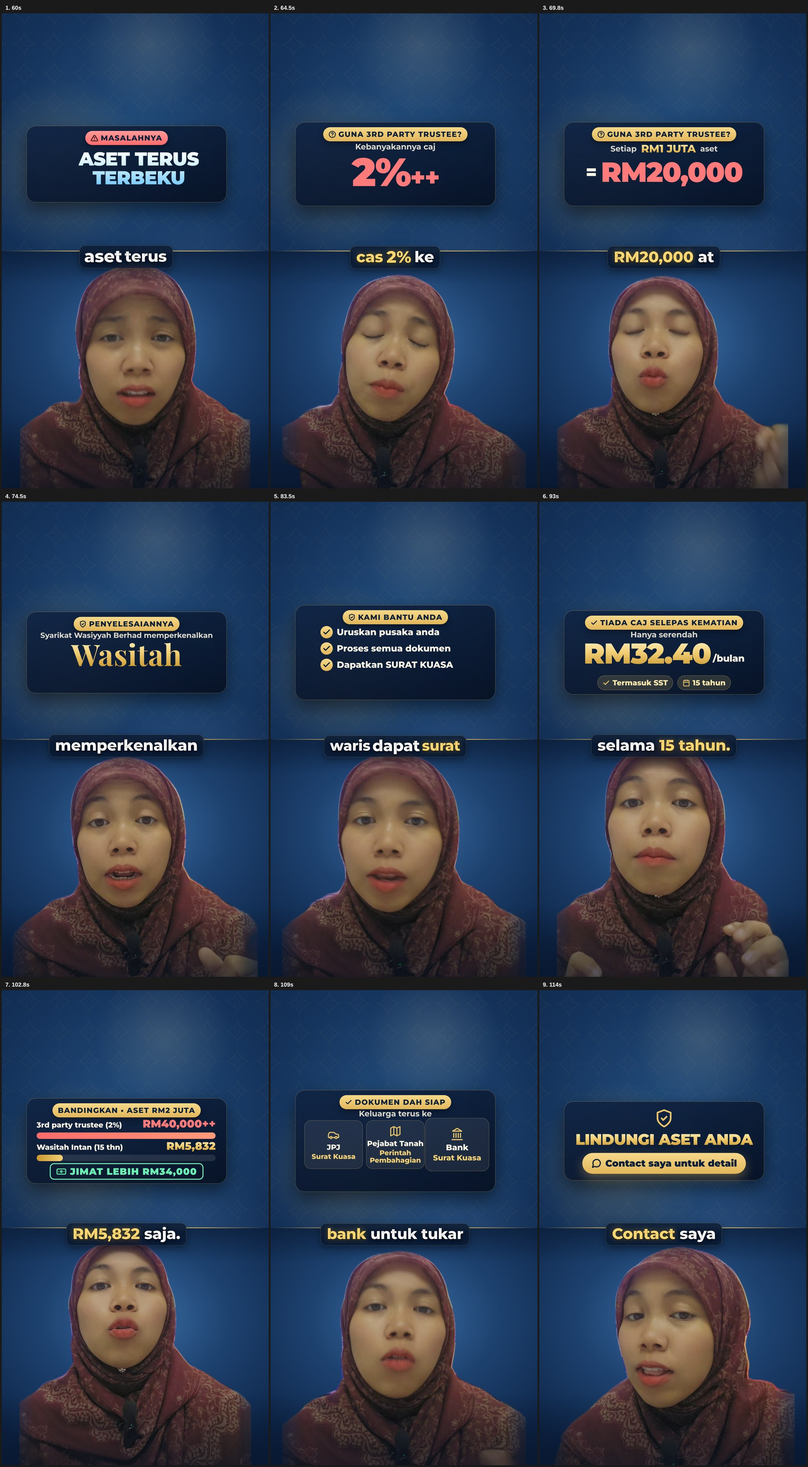
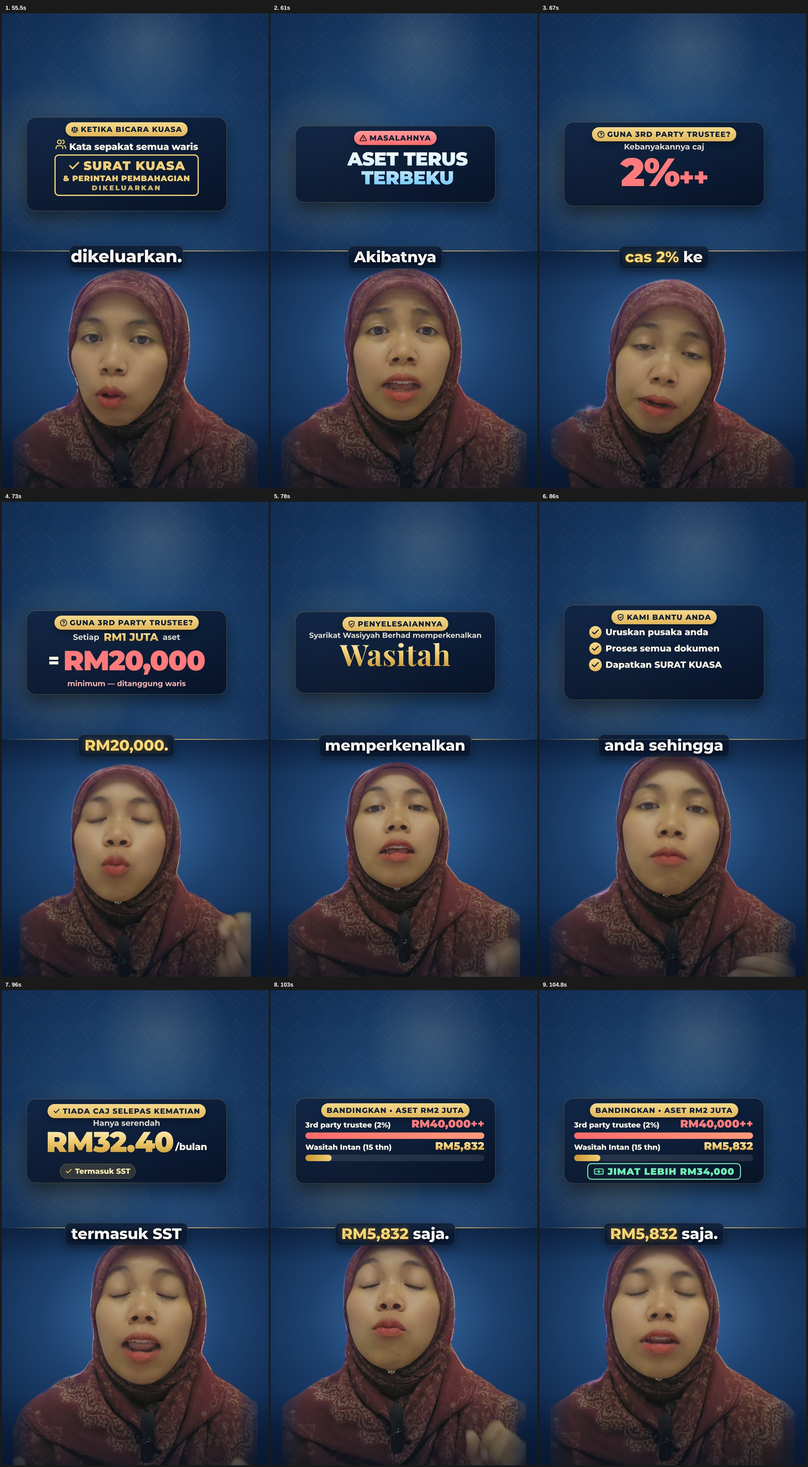
Hold short v2 labels long enough to read; refresh preview frames
Claude-Session: https://claude.ai/code/session_01RHe32ha54VEKSbteqLBH8S

diff --git a/wasiyyah-reel/compositions/captions.html b/wasiyyah-reel/compositions/captions.html
@@ -10,26 +10,26 @@
   <div id="captions" data-composition-id="captions" data-width="1080" data-height="1920">
       <div class="grp" id="cg0" data-a="4.912" data-b="5.606"><span class="pb"><span class="w" id="cw0_0" data-t="4.972">bila</span> <span class="w" id="cw0_1" data-t="5.280">berlaku</span></span></div>
       <div class="grp" id="cg1" data-a="5.606" data-b="6.667"><span class="pb"><span class="w k" id="cw1_0" data-t="5.666">kematian</span></span></div>
-      <div class="grp" id="cg2" data-a="6.885" data-b="7.656"><span class="pb"><span class="w" id="cw2_0" data-t="6.945">semua</span> <span class="w" id="cw2_1" data-t="7.080">aset</span> <span class="w" id="cw2_2" data-t="7.369">kita</span></span></div>
+      <div class="grp" id="cg2" data-a="6.885" data-b="7.656" style="font-size:61px"><span class="pb"><span class="w" id="cw2_0" data-t="6.945">semua</span> <span class="w" id="cw2_1" data-t="7.080">aset</span> <span class="w" id="cw2_2" data-t="7.369">kita</span></span></div>
       <div class="grp" id="cg3" data-a="7.656" data-b="8.900"><span class="pb"><span class="w" id="cw3_0" data-t="7.716">akan</span> <span class="w k" id="cw3_1" data-t="8.005">terbeku.</span></span></div>
       <div class="grp" id="cg4" data-a="8.900" data-b="9.728"><span class="pb"><span class="w k" id="cw4_0" data-t="8.960">Kereta</span></span></div>
       <div class="grp" id="cg5" data-a="9.728" data-b="10.519"><span class="pb"><span class="w k" id="cw5_0" data-t="9.788">rumah</span></span></div>
       <div class="grp" id="cg6" data-a="10.519" data-b="11.251"><span class="pb"><span class="w k" id="cw6_0" data-t="10.579">akaun</span> <span class="w k" id="cw6_1" data-t="10.887">bank</span></span></div>
       <div class="grp" id="cg7" data-a="11.251" data-b="11.964"><span class="pb"><span class="w k" id="cw7_0" data-t="11.311">ASB</span></span></div>
       <div class="grp" id="cg8" data-a="11.964" data-b="12.836"><span class="pb"><span class="w k" id="cw8_0" data-t="12.024">Tabung</span> <span class="w k" id="cw8_1" data-t="12.178">Haji.</span></span></div>
-      <div class="grp" id="cg9" data-a="12.836" data-b="13.626"><span class="pb"><span class="w" id="cw9_0" data-t="12.896">Untuk</span> <span class="w" id="cw9_1" data-t="13.205">keluarkan</span></span></div>
+      <div class="grp" id="cg9" data-a="12.836" data-b="13.626" style="font-size:59px"><span class="pb"><span class="w" id="cw9_0" data-t="12.896">Untuk</span> <span class="w" id="cw9_1" data-t="13.205">keluarkan</span></span></div>
       <div class="grp" id="cg10" data-a="13.626" data-b="14.783"><span class="pb"><span class="w k" id="cw10_0" data-t="13.686">duit</span> <span class="w" id="cw10_1" data-t="14.090">dan</span> <span class="w" id="cw10_2" data-t="14.322">tukar</span></span></div>
       <div class="grp" id="cg11" data-a="14.783" data-b="15.905"><span class="pb"><span class="w" id="cw11_0" data-t="14.843">nama</span> <span class="w k" id="cw11_1" data-t="15.131">geran</span></span></div>
       <div class="grp" id="cg12" data-a="15.905" data-b="16.445"><span class="pb"><span class="w" id="cw12_0" data-t="15.965">waris</span> <span class="w" id="cw12_1" data-t="16.293">perlu</span></span></div>
-      <div class="grp" id="cg13" data-a="16.445" data-b="17.524"><span class="pb"><span class="w" id="cw13_0" data-t="16.505">dapatkan</span> <span class="w k" id="cw13_1" data-t="17.257">surat</span></span></div>
+      <div class="grp" id="cg13" data-a="16.445" data-b="17.524" style="font-size:61px"><span class="pb"><span class="w" id="cw13_0" data-t="16.505">dapatkan</span> <span class="w k" id="cw13_1" data-t="17.257">surat</span></span></div>
       <div class="grp" id="cg14" data-a="17.524" data-b="18.127"><span class="pb"><span class="w k" id="cw14_0" data-t="17.584">kuasa</span></span></div>
       <div class="grp" id="cg15" data-a="18.127" data-b="19.205"><span class="pb"><span class="w" id="cw15_0" data-t="18.187">dari</span> <span class="w k" id="cw15_1" data-t="18.841">pejabat</span></span></div>
       <div class="grp" id="cg16" data-a="19.205" data-b="19.937"><span class="pb"><span class="w k" id="cw16_0" data-t="19.265">tanah</span> <span class="w" id="cw16_1" data-t="19.689">atau</span></span></div>
-      <div class="grp" id="cg17" data-a="19.937" data-b="21.073"><span class="pb"><span class="w k" id="cw17_0" data-t="19.997">mahkamah</span> <span class="w k" id="cw17_1" data-t="20.383">tinggi.</span></span></div>
+      <div class="grp" id="cg17" data-a="19.937" data-b="21.073" style="font-size:59px"><span class="pb"><span class="w k" id="cw17_0" data-t="19.997">mahkamah</span> <span class="w k" id="cw17_1" data-t="20.383">tinggi.</span></span></div>
       <div class="grp" id="cg18" data-a="21.073" data-b="21.667"><span class="pb"><span class="w" id="cw18_0" data-t="21.133">Prosesnya</span></span></div>
       <div class="grp" id="cg19" data-a="22.029" data-b="23.060"><span class="pb"><span class="w" id="cw19_0" data-t="22.089">panjang.</span></span></div>
       <div class="grp" id="cg20" data-a="23.270" data-b="23.810"><span class="pb"><span class="w" id="cw20_0" data-t="23.330">Tarikh</span> <span class="w k" id="cw20_1" data-t="23.523">bicara</span></span></div>
-      <div class="grp" id="cg21" data-a="23.810" data-b="25.419" style="font-size:61px"><span class="pb"><span class="w k" id="cw21_0" data-t="23.870">kuasa</span> <span class="w" id="cw21_1" data-t="24.216">biasanya</span> <span class="w k" id="cw21_2" data-t="24.891">6</span></span></div>
+      <div class="grp" id="cg21" data-a="23.810" data-b="25.419" style="font-size:57px"><span class="pb"><span class="w k" id="cw21_0" data-t="23.870">kuasa</span> <span class="w" id="cw21_1" data-t="24.216">biasanya</span> <span class="w k" id="cw21_2" data-t="24.891">6</span></span></div>
       <div class="grp" id="cg22" data-a="25.419" data-b="26.736"><span class="pb"><span class="w" id="cw22_0" data-t="25.479">hingga</span> <span class="w k" id="cw22_1" data-t="25.904">7</span> <span class="w k" id="cw22_2" data-t="26.269">bulan.</span></span></div>
       <div class="grp" id="cg23" data-a="26.736" data-b="27.661"><span class="pb"><span class="w" id="cw23_0" data-t="26.796">Kalau</span> <span class="w" id="cw23_1" data-t="27.085">ada</span> <span class="w" id="cw23_2" data-t="27.490">ahli</span></span></div>
       <div class="grp" id="cg24" data-a="27.661" data-b="28.895"><span class="pb"><span class="w k" id="cw24_0" data-t="27.721">faraid</span> <span class="w" id="cw24_1" data-t="28.145">gagal</span></span></div>
@@ -41,7 +41,7 @@
       <div class="grp" id="cg30" data-a="33.578" data-b="34.303"><span class="pb"><span class="w k" id="cw30_0" data-t="33.638">tangguh.</span></span></div>
       <div class="grp" id="cg31" data-a="34.303" data-b="35.421"><span class="pb"><span class="w" id="cw31_0" data-t="34.363">Ketika</span> <span class="w k" id="cw31_1" data-t="35.095">bicara</span></span></div>
       <div class="grp" id="cg32" data-a="35.421" data-b="36.440"><span class="pb"><span class="w k" id="cw32_0" data-t="35.481">kuasa</span></span></div>
-      <div class="grp" id="cg33" data-a="36.623" data-b="37.626"><span class="pb"><span class="w" id="cw33_0" data-t="36.683">semua</span> <span class="w" id="cw33_1" data-t="36.838">aset</span> <span class="w" id="cw33_2" data-t="37.300">yang</span></span></div>
+      <div class="grp" id="cg33" data-a="36.623" data-b="37.626" style="font-size:59px"><span class="pb"><span class="w" id="cw33_0" data-t="36.683">semua</span> <span class="w" id="cw33_1" data-t="36.838">aset</span> <span class="w" id="cw33_2" data-t="37.300">yang</span></span></div>
       <div class="grp" id="cg34" data-a="37.626" data-b="38.531"><span class="pb"><span class="w" id="cw34_0" data-t="37.686">diberi</span> <span class="w" id="cw34_1" data-t="38.379">akan</span></span></div>
       <div class="grp" id="cg35" data-a="38.531" data-b="39.745"><span class="pb"><span class="w" id="cw35_0" data-t="38.591">dibentangkan.</span></span></div>
       <div class="grp" id="cg36" data-a="39.795" data-b="41.086"><span class="pb"><span class="w" id="cw36_0" data-t="39.855">Yang</span> <span class="w" id="cw36_1" data-t="39.913">mana</span> <span class="w" id="cw36_2" data-t="40.684">ada</span></span></div>
@@ -58,7 +58,7 @@
       <div class="grp" id="cg47" data-a="49.258" data-b="50.116"><span class="pb"><span class="w" id="cw47_0" data-t="49.318">waris.</span></span></div>
       <div class="grp" id="cg48" data-a="50.116" data-b="50.984"><span class="pb"><span class="w" id="cw48_0" data-t="50.176">Setelah</span> <span class="w" id="cw48_1" data-t="50.562">dapat</span></span></div>
       <div class="grp" id="cg49" data-a="50.984" data-b="52.165"><span class="pb"><span class="w k" id="cw49_0" data-t="51.044">kata</span> <span class="w k" id="cw49_1" data-t="51.602">sepakat</span></span></div>
-      <div class="grp" id="cg50" data-a="52.165" data-b="53.253"><span class="pb"><span class="w" id="cw50_0" data-t="52.225">untuk</span> <span class="w" id="cw50_1" data-t="52.581">semua</span> <span class="w" id="cw50_2" data-t="53.082">ahli</span></span></div>
+      <div class="grp" id="cg50" data-a="52.165" data-b="53.253" style="font-size:59px"><span class="pb"><span class="w" id="cw50_0" data-t="52.225">untuk</span> <span class="w" id="cw50_1" data-t="52.581">semua</span> <span class="w" id="cw50_2" data-t="53.082">ahli</span></span></div>
       <div class="grp" id="cg51" data-a="53.253" data-b="53.951"><span class="pb"><span class="w k" id="cw51_0" data-t="53.313">faraid</span></span></div>
       <div class="grp" id="cg52" data-a="53.951" data-b="54.626"><span class="pb"><span class="w" id="cw52_0" data-t="54.011">barulah</span> <span class="w k" id="cw52_1" data-t="54.377">surat</span></span></div>
       <div class="grp" id="cg53" data-a="54.626" data-b="55.358"><span class="pb"><span class="w k" id="cw53_0" data-t="54.686">kuasa</span> <span class="w" id="cw53_1" data-t="55.166">akan</span></span></div>
@@ -70,47 +70,47 @@
       <div class="grp" id="cg59" data-a="60.096" data-b="61.334"><span class="pb"><span class="w" id="cw59_0" data-t="60.156">Akibatnya</span></span></div>
       <div class="grp" id="cg60" data-a="61.334" data-b="61.835"><span class="pb"><span class="w" id="cw60_0" data-t="61.394">aset</span> <span class="w" id="cw60_1" data-t="61.548">terus</span></span></div>
       <div class="grp" id="cg61" data-a="61.835" data-b="62.836"><span class="pb"><span class="w k" id="cw61_0" data-t="61.895">terbeku.</span></span></div>
-      <div class="grp" id="cg62" data-a="62.836" data-b="63.993" style="font-size:57px"><span class="pb"><span class="w" id="cw62_0" data-t="62.896">Nak</span> <span class="w" id="cw62_1" data-t="63.146">minta</span> <span class="w" id="cw62_2" data-t="63.629">bantuan</span></span></div>
+      <div class="grp" id="cg62" data-a="62.836" data-b="63.993" style="font-size:53px"><span class="pb"><span class="w" id="cw62_0" data-t="62.896">Nak</span> <span class="w" id="cw62_1" data-t="63.146">minta</span> <span class="w" id="cw62_2" data-t="63.629">bantuan</span></span></div>
       <div class="grp" id="cg63" data-a="63.993" data-b="65.146"><span class="pb"><span class="w" id="cw63_0" data-t="64.053">third party?</span></span></div>
-      <div class="grp" id="cg64" data-a="65.251" data-b="66.514"><span class="pb"><span class="w" id="cw64_0" data-t="65.311">Kebanyakannya</span></span></div>
+      <div class="grp" id="cg64" data-a="65.251" data-b="66.514" style="font-size:61px"><span class="pb"><span class="w" id="cw64_0" data-t="65.311">Kebanyakannya</span></span></div>
       <div class="grp" id="cg65" data-a="66.514" data-b="67.651"><span class="pb"><span class="w k" id="cw65_0" data-t="66.574">cas</span> <span class="w k" id="cw65_1" data-t="66.748">2%</span> <span class="w" id="cw65_2" data-t="67.480">ke</span></span></div>
       <div class="grp" id="cg66" data-a="67.651" data-b="68.496"><span class="pb"><span class="w" id="cw66_0" data-t="67.711">atas.</span></span></div>
       <div class="grp" id="cg67" data-a="68.496" data-b="69.394"><span class="pb"><span class="w" id="cw67_0" data-t="68.556">Bayangkan</span></span></div>
-      <div class="grp" id="cg68" data-a="69.394" data-b="71.291"><span class="pb"><span class="w" id="cw68_0" data-t="69.454">setiap</span> <span class="w k" id="cw68_1" data-t="70.090">RM1</span> <span class="w k" id="cw68_2" data-t="70.572">juta</span></span></div>
+      <div class="grp" id="cg68" data-a="69.394" data-b="71.291" style="font-size:58px"><span class="pb"><span class="w" id="cw68_0" data-t="69.454">setiap</span> <span class="w k" id="cw68_1" data-t="70.090">RM1</span> <span class="w k" id="cw68_2" data-t="70.572">juta</span></span></div>
       <div class="grp" id="cg69" data-a="71.495" data-b="72.015"><span class="pb"><span class="w" id="cw69_0" data-t="71.555">waris</span> <span class="w" id="cw69_1" data-t="71.805">perlu</span></span></div>
       <div class="grp" id="cg70" data-a="72.015" data-b="72.593"><span class="pb"><span class="w" id="cw70_0" data-t="72.075">keluarkan</span></span></div>
       <div class="grp" id="cg71" data-a="72.593" data-b="73.879"><span class="pb"><span class="w k" id="cw71_0" data-t="72.653">RM20,000.</span></span></div>
       <div class="grp" id="cg72" data-a="73.879" data-b="74.694"><span class="pb"><span class="w" id="cw72_0" data-t="73.939">Sebab</span> <span class="w" id="cw72_1" data-t="74.208">itu</span></span></div>
-      <div class="grp" id="cg73" data-a="74.694" data-b="75.887" style="font-size:57px"><span class="pb"><span class="w" id="cw73_0" data-t="74.754">Syarikat</span> <span class="w k" id="cw73_1" data-t="75.523">Wasiyyah</span></span></div>
+      <div class="grp" id="cg73" data-a="74.694" data-b="75.887" style="font-size:53px"><span class="pb"><span class="w" id="cw73_0" data-t="74.754">Syarikat</span> <span class="w k" id="cw73_1" data-t="75.523">Wasiyyah</span></span></div>
       <div class="grp" id="cg74" data-a="75.887" data-b="76.214"><span class="pb"><span class="w" id="cw74_0" data-t="75.947">Berhad</span></span></div>
-      <div class="grp" id="cg75" data-a="76.214" data-b="78.193"><span class="pb"><span class="w" id="cw75_0" data-t="76.274">memperkenalkan</span></span></div>
+      <div class="grp" id="cg75" data-a="76.214" data-b="78.193" style="font-size:61px"><span class="pb"><span class="w" id="cw75_0" data-t="76.274">memperkenalkan</span></span></div>
       <div class="grp" id="cg76" data-a="78.193" data-b="79.157"><span class="pb"><span class="w" id="cw76_0" data-t="78.253">satu</span> <span class="w" id="cw76_1" data-t="78.774">produk</span></span></div>
-      <div class="grp" id="cg77" data-a="79.157" data-b="80.615"><span class="pb"><span class="w k" id="cw77_0" data-t="79.217">Wasitah</span> <span class="w" id="cw77_1" data-t="80.039">sebagai</span></span></div>
-      <div class="grp" id="cg78" data-a="80.615" data-b="81.855"><span class="pb"><span class="w k" id="cw78_0" data-t="80.675">Khairiat</span> <span class="w k" id="cw78_1" data-t="81.004">Pusaka.</span></span></div>
-      <div class="grp" id="cg79" data-a="81.855" data-b="83.300"><span class="pb"><span class="w" id="cw79_0" data-t="81.915">kami</span> <span class="w" id="cw79_1" data-t="82.454">akan</span> <span class="w" id="cw79_2" data-t="82.917">bantu</span></span></div>
-      <div class="grp" id="cg80" data-a="83.300" data-b="84.322"><span class="pb"><span class="w" id="cw80_0" data-t="83.360">uruskan</span> <span class="w k" id="cw80_1" data-t="83.823">pusaka</span></span></div>
+      <div class="grp" id="cg77" data-a="79.157" data-b="80.615" style="font-size:61px"><span class="pb"><span class="w k" id="cw77_0" data-t="79.217">Wasitah</span> <span class="w" id="cw77_1" data-t="80.039">sebagai</span></span></div>
+      <div class="grp" id="cg78" data-a="80.615" data-b="81.855" style="font-size:58px"><span class="pb"><span class="w k" id="cw78_0" data-t="80.675">Khairiat</span> <span class="w k" id="cw78_1" data-t="81.004">Pusaka.</span></span></div>
+      <div class="grp" id="cg79" data-a="81.855" data-b="83.300" style="font-size:61px"><span class="pb"><span class="w" id="cw79_0" data-t="81.915">kami</span> <span class="w" id="cw79_1" data-t="82.454">akan</span> <span class="w" id="cw79_2" data-t="82.917">bantu</span></span></div>
+      <div class="grp" id="cg80" data-a="83.300" data-b="84.322" style="font-size:61px"><span class="pb"><span class="w" id="cw80_0" data-t="83.360">uruskan</span> <span class="w k" id="cw80_1" data-t="83.823">pusaka</span></span></div>
       <div class="grp" id="cg81" data-a="84.322" data-b="86.084"><span class="pb"><span class="w" id="cw81_0" data-t="84.382">anda</span> <span class="w" id="cw81_1" data-t="84.940">sehingga</span></span></div>
-      <div class="grp" id="cg82" data-a="86.084" data-b="87.105" style="font-size:58px"><span class="pb"><span class="w" id="cw82_0" data-t="86.144">waris</span> <span class="w" id="cw82_1" data-t="86.491">dapat</span> <span class="w k" id="cw82_2" data-t="86.877">surat</span></span></div>
+      <div class="grp" id="cg82" data-a="86.084" data-b="87.105" style="font-size:53px"><span class="pb"><span class="w" id="cw82_0" data-t="86.144">waris</span> <span class="w" id="cw82_1" data-t="86.491">dapat</span> <span class="w k" id="cw82_2" data-t="86.877">surat</span></span></div>
       <div class="grp" id="cg83" data-a="87.105" data-b="88.312"><span class="pb"><span class="w k" id="cw83_0" data-t="87.165">kuasa.</span></span></div>
-      <div class="grp" id="cg84" data-a="88.312" data-b="89.179" style="font-size:59px"><span class="pb"><span class="w k" id="cw84_0" data-t="88.372">Tiada</span> <span class="w k" id="cw84_1" data-t="88.622">cas</span> <span class="w" id="cw84_2" data-t="88.833">selepas</span></span></div>
+      <div class="grp" id="cg84" data-a="88.312" data-b="89.179" style="font-size:55px"><span class="pb"><span class="w k" id="cw84_0" data-t="88.372">Tiada</span> <span class="w k" id="cw84_1" data-t="88.622">cas</span> <span class="w" id="cw84_2" data-t="88.833">selepas</span></span></div>
       <div class="grp" id="cg85" data-a="89.179" data-b="90.587"><span class="pb"><span class="w k" id="cw85_0" data-t="89.239">kematian</span></span></div>
-      <div class="grp" id="cg86" data-a="90.731" data-b="91.560"><span class="pb"><span class="w" id="cw86_0" data-t="90.791">hanya</span> <span class="w" id="cw86_1" data-t="90.926">serendah</span></span></div>
+      <div class="grp" id="cg86" data-a="90.731" data-b="91.560" style="font-size:61px"><span class="pb"><span class="w" id="cw86_0" data-t="90.791">hanya</span> <span class="w" id="cw86_1" data-t="90.926">serendah</span></span></div>
       <div class="grp" id="cg87" data-a="91.560" data-b="93.271"><span class="pb"><span class="w k" id="cw87_0" data-t="91.620">RM32.40</span></span></div>
       <div class="grp" id="cg88" data-a="93.500" data-b="94.541"><span class="pb"><span class="w" id="cw88_0" data-t="93.560">sebulan</span></span></div>
       <div class="grp" id="cg89" data-a="94.541" data-b="96.102"><span class="pb"><span class="w" id="cw89_0" data-t="94.601">termasuk</span> <span class="w" id="cw89_1" data-t="95.006">SST</span></span></div>
-      <div class="grp" id="cg90" data-a="96.102" data-b="98.139"><span class="pb"><span class="w" id="cw90_0" data-t="96.162">selama</span> <span class="w k" id="cw90_1" data-t="96.682">15</span> <span class="w k" id="cw90_2" data-t="97.473">tahun.</span></span></div>
-      <div class="grp" id="cg91" data-a="98.139" data-b="99.508" style="font-size:57px"><span class="pb"><span class="w" id="cw91_0" data-t="98.199">Kami</span> <span class="w" id="cw91_1" data-t="98.740">uruskan</span> <span class="w" id="cw91_2" data-t="99.279">aset</span></span></div>
+      <div class="grp" id="cg90" data-a="96.102" data-b="98.139" style="font-size:58px"><span class="pb"><span class="w" id="cw90_0" data-t="96.162">selama</span> <span class="w k" id="cw90_1" data-t="96.682">15</span> <span class="w k" id="cw90_2" data-t="97.473">tahun.</span></span></div>
+      <div class="grp" id="cg91" data-a="98.139" data-b="99.508" style="font-size:53px"><span class="pb"><span class="w" id="cw91_0" data-t="98.199">Kami</span> <span class="w" id="cw91_1" data-t="98.740">uruskan</span> <span class="w" id="cw91_2" data-t="99.279">aset</span></span></div>
       <div class="grp" id="cg92" data-a="99.508" data-b="100.548"><span class="pb"><span class="w" id="cw92_0" data-t="99.568">sehingga</span> <span class="w k" id="cw92_1" data-t="100.165">RM2</span></span></div>
       <div class="grp" id="cg93" data-a="100.548" data-b="101.488"><span class="pb"><span class="w k" id="cw93_0" data-t="100.608">juta.</span></span></div>
-      <div class="grp" id="cg94" data-a="101.488" data-b="102.510"><span class="pb"><span class="w" id="cw94_0" data-t="101.548">jumlahnya</span> <span class="w" id="cw94_1" data-t="102.107">hanya</span></span></div>
+      <div class="grp" id="cg94" data-a="101.488" data-b="102.510" style="font-size:59px"><span class="pb"><span class="w" id="cw94_0" data-t="101.548">jumlahnya</span> <span class="w" id="cw94_1" data-t="102.107">hanya</span></span></div>
       <div class="grp" id="cg95" data-a="102.510" data-b="106.045"><span class="pb"><span class="w k" id="cw95_0" data-t="102.570">RM5,832</span> <span class="w" id="cw95_1" data-t="104.901">saja.</span></span></div>
-      <div class="grp" id="cg96" data-a="106.045" data-b="106.585"><span class="pb"><span class="w" id="cw96_0" data-t="106.105">Dah</span> <span class="w" id="cw96_1" data-t="106.163">dapat</span> <span class="w k" id="cw96_2" data-t="106.375">surat</span></span></div>
+      <div class="grp" id="cg96" data-a="106.045" data-b="106.585" style="font-size:59px"><span class="pb"><span class="w" id="cw96_0" data-t="106.105">Dah</span> <span class="w" id="cw96_1" data-t="106.163">dapat</span> <span class="w k" id="cw96_2" data-t="106.375">surat</span></span></div>
       <div class="grp" id="cg97" data-a="106.585" data-b="107.466"><span class="pb"><span class="w k" id="cw97_0" data-t="106.645">kuasa</span></span></div>
       <div class="grp" id="cg98" data-a="107.466" data-b="108.482"><span class="pb"><span class="w" id="cw98_0" data-t="107.526">keluarga</span> <span class="w" id="cw98_1" data-t="108.253">boleh</span></span></div>
       <div class="grp" id="cg99" data-a="108.482" data-b="109.947"><span class="pb"><span class="w" id="cw99_0" data-t="108.542">terus</span> <span class="w" id="cw99_1" data-t="108.870">ke</span> <span class="w k" id="cw99_2" data-t="109.140">JPJ</span></span></div>
-      <div class="grp" id="cg100" data-a="109.947" data-b="111.172" style="font-size:55px"><span class="pb"><span class="w k" id="cw100_0" data-t="110.007">Pejabat</span> <span class="w k" id="cw100_1" data-t="110.296">Tanah</span> <span class="w" id="cw100_2" data-t="110.991">dan</span></span></div>
-      <div class="grp" id="cg101" data-a="111.172" data-b="112.290" style="font-size:60px"><span class="pb"><span class="w k" id="cw101_0" data-t="111.232">bank</span> <span class="w" id="cw101_1" data-t="111.560">untuk</span> <span class="w" id="cw101_2" data-t="111.984">tukar</span></span></div>
-      <div class="grp" id="cg102" data-a="112.290" data-b="113.292"><span class="pb"><span class="w" id="cw102_0" data-t="112.350">nama</span> <span class="w" id="cw102_1" data-t="112.677">dan</span> <span class="w k" id="cw102_2" data-t="112.966">cairkan</span></span></div>
+      <div class="grp" id="cg100" data-a="109.947" data-b="111.172" style="font-size:51px"><span class="pb"><span class="w k" id="cw100_0" data-t="110.007">Pejabat</span> <span class="w k" id="cw100_1" data-t="110.296">Tanah</span> <span class="w" id="cw100_2" data-t="110.991">dan</span></span></div>
+      <div class="grp" id="cg101" data-a="111.172" data-b="112.290" style="font-size:55px"><span class="pb"><span class="w k" id="cw101_0" data-t="111.232">bank</span> <span class="w" id="cw101_1" data-t="111.560">untuk</span> <span class="w" id="cw101_2" data-t="111.984">tukar</span></span></div>
+      <div class="grp" id="cg102" data-a="112.290" data-b="113.292" style="font-size:57px"><span class="pb"><span class="w" id="cw102_0" data-t="112.350">nama</span> <span class="w" id="cw102_1" data-t="112.677">dan</span> <span class="w k" id="cw102_2" data-t="112.966">cairkan</span></span></div>
       <div class="grp" id="cg103" data-a="113.292" data-b="113.850"><span class="pb"><span class="w k" id="cw103_0" data-t="113.352">duit.</span></span></div>
       <div class="grp" id="cg104" data-a="113.850" data-b="115.219"><span class="pb"><span class="w k" id="cw104_0" data-t="113.910">Lindungi</span> <span class="w" id="cw104_1" data-t="115.028">aset</span></span></div>
       <div class="grp" id="cg105" data-a="115.219" data-b="115.755"><span class="pb"><span class="w" id="cw105_0" data-t="115.279">anda.</span></span></div>

diff --git a/wasiyyah-reel/index.html b/wasiyyah-reel/index.html
@@ -45,8 +45,8 @@
       <div id="frost" data-layout-ignore></div>
       <div id="hook" class="clip scene" data-composition-id="hook" data-composition-src="compositions/hook.html" data-start="0.0" data-duration="4.951" data-track-index="2" data-track-kind="graphics" data-width="1080" data-height="1920"></div>
       <div id="freeze" class="clip scene" data-composition-id="freeze" data-composition-src="compositions/freeze.html" data-start="4.951" data-duration="3.902" data-track-index="2" data-track-kind="graphics" data-width="1080" data-height="1920"></div>
-      <div id="assets" class="clip scene" data-composition-id="assets" data-composition-src="compositions/assets.html" data-start="8.853" data-duration="5.35" data-track-index="2" data-track-kind="graphics" data-width="1080" data-height="1920"></div>
-      <div id="surat" class="clip scene" data-composition-id="surat" data-composition-src="compositions/surat.html" data-start="14.203" data-duration="6.826" data-track-index="2" data-track-kind="graphics" data-width="1080" data-height="1920"></div>
+      <div id="assets" class="clip scene" data-composition-id="assets" data-composition-src="compositions/assets.html" data-start="8.853" data-duration="5.8" data-track-index="2" data-track-kind="graphics" data-width="1080" data-height="1920"></div>
+      <div id="surat" class="clip scene" data-composition-id="surat" data-composition-src="compositions/surat.html" data-start="14.653" data-duration="6.376" data-track-index="2" data-track-kind="graphics" data-width="1080" data-height="1920"></div>
       <div id="tarikh" class="clip scene" data-composition-id="tarikh" data-composition-src="compositions/tarikh.html" data-start="21.029" data-duration="14.77" data-track-index="2" data-track-kind="graphics" data-width="1080" data-height="1920"></div>
       <div id="bicara" class="clip scene" data-composition-id="bicara" data-composition-src="compositions/bicara.html" data-start="35.799" data-duration="20.363" data-track-index="2" data-track-kind="graphics" data-width="1080" data-height="1920"></div>
       <div id="masalah" class="clip scene" data-composition-id="masalah" data-composition-src="compositions/masalah.html" data-start="56.162" data-duration="6.402" data-track-index="2" data-track-kind="graphics" data-width="1080" data-height="1920"></div>
@@ -73,8 +73,8 @@
       <audio id="sfx10" class="clip" src="assets/sfx/pop.wav" data-start="11.311" data-duration="0.12" data-volume="0.3" data-audio-group="sfx" data-track-index="4"></audio>
       <audio id="sfx11" class="clip" src="assets/sfx/pop.wav" data-start="12.019" data-duration="0.12" data-volume="0.3" data-audio-group="sfx" data-track-index="4"></audio>
       <audio id="sfx12" class="clip" src="assets/sfx/lock.wav" data-start="12.753" data-duration="0.5" data-volume="0.4" data-audio-group="sfx" data-track-index="4"></audio>
-      <audio id="sfx13" class="clip" src="assets/sfx/tick.wav" data-start="13.253" data-duration="0.05" data-volume="0.28" data-audio-group="sfx" data-track-index="4"></audio>
-      <audio id="sfx14" class="clip" src="assets/sfx/whoosh.wav" data-start="14.203" data-duration="0.55" data-volume="0.24" data-audio-group="sfx" data-track-index="4"></audio>
+      <audio id="sfx13" class="clip" src="assets/sfx/tick.wav" data-start="12.903" data-duration="0.05" data-volume="0.28" data-audio-group="sfx" data-track-index="5"></audio>
+      <audio id="sfx14" class="clip" src="assets/sfx/whoosh.wav" data-start="14.653" data-duration="0.55" data-volume="0.24" data-audio-group="sfx" data-track-index="4"></audio>
       <audio id="sfx15" class="clip" src="assets/sfx/stamp.wav" data-start="17.258" data-duration="0.35" data-volume="0.45" data-audio-group="sfx" data-track-index="4"></audio>
       <audio id="sfx16" class="clip" src="assets/sfx/pop.wav" data-start="18.791" data-duration="0.12" data-volume="0.28" data-audio-group="sfx" data-track-index="4"></audio>
       <audio id="sfx17" class="clip" src="assets/sfx/pop.wav" data-start="19.957" data-duration="0.12" data-volume="0.28" data-audio-group="sfx" data-track-index="4"></audio>
@@ -147,36 +147,36 @@
     tl.to('#frost',{opacity:0,duration:0.5,ease:'power2.in'},62.031499999999994);
     tl.fromTo('#frost',{opacity:0,scale:1.08},{opacity:1,scale:1,duration:0.18,ease:'power2.out',immediateRender:false},12.753);
     tl.to('#frost',{opacity:0,duration:0.5,ease:'power2.in'},13.453);
-    tl.to('#shake',{x:14.0,y:-8.4,duration:0.035,ease:'none'},3.486);
-    tl.to('#shake',{x:-11.2,y:12.6,duration:0.035,ease:'none'},3.521);
-    tl.to('#shake',{x:8.4,y:-5.6,duration:0.035,ease:'none'},3.556);
-    tl.to('#shake',{x:-5.6,y:7.0,duration:0.035,ease:'none'},3.591);
-    tl.to('#shake',{x:2.8,y:-2.8,duration:0.035,ease:'none'},3.626);
-    tl.to('#shake',{x:0.0,y:0.0,duration:0.035,ease:'none'},3.661);
-    tl.to('#shake',{x:7.0,y:-4.2,duration:0.035,ease:'none'},33.383);
-    tl.to('#shake',{x:-5.6,y:6.3,duration:0.035,ease:'none'},33.418);
-    tl.to('#shake',{x:4.2,y:-2.8,duration:0.035,ease:'none'},33.453);
-    tl.to('#shake',{x:-2.8,y:3.5,duration:0.035,ease:'none'},33.488);
-    tl.to('#shake',{x:1.4,y:-1.4,duration:0.035,ease:'none'},33.523);
-    tl.to('#shake',{x:0.0,y:0.0,duration:0.035,ease:'none'},33.558);
+    tl.to('#shake',{x:14.0,y:-8.4,duration:0.035,ease:'none'},3.490);
+    tl.to('#shake',{x:-11.2,y:12.6,duration:0.035,ease:'none'},3.525);
+    tl.to('#shake',{x:8.4,y:-5.6,duration:0.035,ease:'none'},3.560);
+    tl.to('#shake',{x:-5.6,y:7.0,duration:0.035,ease:'none'},3.595);
+    tl.to('#shake',{x:2.8,y:-2.8,duration:0.035,ease:'none'},3.630);
+    tl.to('#shake',{x:0.0,y:0.0,duration:0.035,ease:'none'},3.665);
+    tl.to('#shake',{x:7.0,y:-4.2,duration:0.035,ease:'none'},33.380);
+    tl.to('#shake',{x:-5.6,y:6.3,duration:0.035,ease:'none'},33.415);
+    tl.to('#shake',{x:4.2,y:-2.8,duration:0.035,ease:'none'},33.450);
+    tl.to('#shake',{x:-2.8,y:3.5,duration:0.035,ease:'none'},33.485);
+    tl.to('#shake',{x:1.4,y:-1.4,duration:0.035,ease:'none'},33.520);
+    tl.to('#shake',{x:0.0,y:0.0,duration:0.035,ease:'none'},33.555);
     tl.to('#shake',{x:6.0,y:-3.6,duration:0.035,ease:'none'},66.460);
     tl.to('#shake',{x:-4.8,y:5.4,duration:0.035,ease:'none'},66.495);
     tl.to('#shake',{x:3.6,y:-2.4,duration:0.035,ease:'none'},66.530);
-    tl.to('#shake',{x:-2.4,y:3.0,duration:0.035,ease:'none'},66.566);
+    tl.to('#shake',{x:-2.4,y:3.0,duration:0.035,ease:'none'},66.565);
     tl.to('#shake',{x:1.2,y:-1.2,duration:0.035,ease:'none'},66.600);
     tl.to('#shake',{x:0.0,y:0.0,duration:0.035,ease:'none'},66.635);
-    tl.to('#shake',{x:5.0,y:-3.0,duration:0.035,ease:'none'},7.937);
-    tl.to('#shake',{x:-4.0,y:4.5,duration:0.035,ease:'none'},7.972);
-    tl.to('#shake',{x:3.0,y:-2.0,duration:0.035,ease:'none'},8.007);
-    tl.to('#shake',{x:-2.0,y:2.5,duration:0.035,ease:'none'},8.042);
-    tl.to('#shake',{x:1.0,y:-1.0,duration:0.035,ease:'none'},8.077);
-    tl.to('#shake',{x:0.0,y:0.0,duration:0.035,ease:'none'},8.112);
-    tl.to('#shake',{x:5.0,y:-3.0,duration:0.035,ease:'none'},12.803);
-    tl.to('#shake',{x:-4.0,y:4.5,duration:0.035,ease:'none'},12.838);
-    tl.to('#shake',{x:3.0,y:-2.0,duration:0.035,ease:'none'},12.873);
-    tl.to('#shake',{x:-2.0,y:2.5,duration:0.035,ease:'none'},12.908);
-    tl.to('#shake',{x:1.0,y:-1.0,duration:0.035,ease:'none'},12.943);
-    tl.to('#shake',{x:0.0,y:0.0,duration:0.035,ease:'none'},12.978);
+    tl.to('#shake',{x:5.0,y:-3.0,duration:0.035,ease:'none'},7.940);
+    tl.to('#shake',{x:-4.0,y:4.5,duration:0.035,ease:'none'},7.975);
+    tl.to('#shake',{x:3.0,y:-2.0,duration:0.035,ease:'none'},8.010);
+    tl.to('#shake',{x:-2.0,y:2.5,duration:0.035,ease:'none'},8.045);
+    tl.to('#shake',{x:1.0,y:-1.0,duration:0.035,ease:'none'},8.080);
+    tl.to('#shake',{x:0.0,y:0.0,duration:0.035,ease:'none'},8.115);
+    tl.to('#shake',{x:5.0,y:-3.0,duration:0.035,ease:'none'},12.800);
+    tl.to('#shake',{x:-4.0,y:4.5,duration:0.035,ease:'none'},12.835);
+    tl.to('#shake',{x:3.0,y:-2.0,duration:0.035,ease:'none'},12.870);
+    tl.to('#shake',{x:-2.0,y:2.5,duration:0.035,ease:'none'},12.905);
+    tl.to('#shake',{x:1.0,y:-1.0,duration:0.035,ease:'none'},12.940);
+    tl.to('#shake',{x:0.0,y:0.0,duration:0.035,ease:'none'},12.975);
       window.__timelines["main"] = tl;
     </script>
   </body>

diff --git a/wasiyyah-reel/compositions/surat.html b/wasiyyah-reel/compositions/surat.html
@@ -55,13 +55,13 @@ const RM=(v)=>'RM'+Math.round(v).toLocaleString('en-US');
 
     IN('#su-panel',0.0,{y:-30});
     POP('#su-kick',0.0);
-    IN('#su-l1',1.712);
-    IN('#su-doc',2.181,{y:30});
-    tl.fromTo('#su-title',{scale:1.5,opacity:0.2},{scale:1,opacity:1,duration:0.22,ease:'power4.in'},3.055);
-    POP('#su-p1',4.588);
-    IN('#su-or',5.421,{y:10,d:0.25});
-    POP('#su-p2',5.754);
-    OUT('#su-panel',6.513);
+    IN('#su-l1',1.262);
+    IN('#su-doc',1.731,{y:30});
+    tl.fromTo('#su-title',{scale:1.5,opacity:0.2},{scale:1,opacity:1,duration:0.22,ease:'power4.in'},2.605);
+    POP('#su-p1',4.138);
+    IN('#su-or',4.971,{y:10,d:0.25});
+    POP('#su-p2',5.304);
+    OUT('#su-panel',6.063);
 
     window.__timelines["surat"] = tl;
   </script>

diff --git a/wasiyyah-reel/compositions/assets.html b/wasiyyah-reel/compositions/assets.html
@@ -64,8 +64,8 @@ const RM=(v)=>'RM'+Math.round(v).toLocaleString('en-US');
     tl.to('#as-fr0,#as-fr1,#as-fr2,#as-fr3,#as-fr4',{opacity:1,duration:0.3,stagger:0.07,ease:'power2.out'},3.9);
     POP('#as-lk0,#as-lk1,#as-lk2,#as-lk3,#as-lk4',3.95,{st:0.07});
     tl.fromTo('#as-panel',{x:0},{x:7,duration:0.05,yoyo:true,repeat:5,ease:'none'},3.95);
-    POP('#as-ban',4.4);
-    OUT('#as-panel',5.05);
+    POP('#as-ban',4.05);
+    OUT('#as-panel',5.5);
 
     window.__timelines["assets"] = tl;
   </script>

diff --git a/wasiyyah-reel/compositions/third.html b/wasiyyah-reel/compositions/third.html
@@ -66,7 +66,7 @@ const RM=(v)=>'RM'+Math.round(v).toLocaleString('en-US');
     tl.fromTo('#th-20k',{opacity:0,scale:0.7},{opacity:1,scale:1,duration:0.3,ease:'power3.out'},9.417);
     COUNT('#th-20k',0,20000,9.469,0.6,RM);
     tl.fromTo('#th-20k',{scale:1.18},{scale:1,duration:0.35,ease:'back.out(2.5)',immediateRender:false},10.093);
-    IN('#th-al',10.666,{y:10});
+    IN('#th-al',9.84,{y:10});
     OUT('#th-panel',11.34);
 
     window.__timelines["third"] = tl;

diff --git a/wasiyyah-reel/tools/build.py b/wasiyyah-reel/tools/build.py
@@ -99,7 +99,7 @@ SCENES = []  # (sid, start, end, html)
 # would land in the cut. Lock right after "Tabung Haji", hold the card briefly, then hand over.
 _haji = next(w for w in words if w["text"].lower().startswith("haji"))
 LOCK2 = round(_haji["end"] + 0.12, 3)
-ASSETS_END2 = round(LOCK2 + 1.45, 3)
+ASSETS_END2 = round(LOCK2 + 1.9, 3)
 # "Sekiranya anda melanggan Wasitah Intan ini," is cut too: the comparison card opens just before "jumlahnya".
 BANDING_S2 = round(next(w for w in words if w["text"].lower().startswith("jumlahnya"))["start"] - 0.35, 3)
 OVR = {"assets": (None, ASSETS_END2), "surat": (ASSETS_END2, None),
@@ -202,7 +202,7 @@ add_scene("assets", s0, s1, """
     tl.to('#as-fr0,#as-fr1,#as-fr2,#as-fr3,#as-fr4',{{opacity:1,duration:0.3,stagger:0.07,ease:'power2.out'}},{round(LOCK2-T(s0),3)});
     POP('#as-lk0,#as-lk1,#as-lk2,#as-lk3,#as-lk4',{round(LOCK2+0.05-T(s0),3)},{{st:0.07}});
     tl.fromTo('#as-panel',{{x:0}},{{x:7,duration:0.05,yoyo:true,repeat:5,ease:'none'}},{round(LOCK2+0.05-T(s0),3)});
-    POP('#as-ban',{round(LOCK2+0.5-T(s0),3)});
+    POP('#as-ban',{round(LOCK2+0.15-T(s0),3)});
     OUT('#as-panel',{round(ASSETS_END2-0.3-T(s0),3)});
 """)
 
@@ -361,7 +361,7 @@ add_scene("third", s0, s1, "", f"""
     tl.fromTo('#th-20k',{{opacity:0,scale:0.7}},{{opacity:1,scale:1,duration:0.3,ease:'power3.out'}},{t(68.8)});
     COUNT('#th-20k',0,20000,{t(68.85)},0.6,RM);
     tl.fromTo('#th-20k',{{scale:1.18}},{{scale:1,duration:0.35,ease:'back.out(2.5)',immediateRender:false}},{t(69.45)});
-    IN('#th-al',{t(70.0)},{{y:10}});
+    IN('#th-al',{round(t(71.18)-1.5,3)},{{y:10}});
     OUT('#th-panel',{t(71.18)});
 """)
 
@@ -536,7 +536,7 @@ for gi, g in enumerate(groups):
         disp = html.escape(w["text"].rstrip(","))
         spans.append(f'<span class="w{k}" id="cw{gi}_{wi}" data-t="{w["start"]:.3f}">{disp}</span>')
     est = sum(0.66 if c.isupper() or c.isdigit() else (0.3 if c in " .,'il" else 0.6) for c in " ".join(x["text"] for x in g)) * 62
-    fs = f' style="font-size:{max(44, int(62 * 540 / est))}px"' if est > 540 else ""
+    fs = f' style="font-size:{max(44, int(62 * 500 / est))}px"' if est > 500 else ""
     cap_html.append(f'      <div class="grp" id="cg{gi}" data-a="{g0:.3f}" data-b="{g1:.3f}"{fs}><span class="pb">{" ".join(spans)}</span></div>')
 
 with open(os.path.join(PROJ, "compositions", "captions.html"), "w") as f:
@@ -595,7 +595,7 @@ SFX = [
     ("riser", 1.75, .32), ("impact", 3.35, .55), ("stamp", 3.86, .42), ("whoosh", 4.45, .30),
     ("swish", 5.3, .22), ("lock", 7.42, .42),
     ("whoosh", 8.25, .24), ("pop", 8.37, .30), ("pop", 9.17, .30), ("pop", 9.93, .30), ("pop", 10.63, .30), ("pop", 11.31, .30),
-    ("lock", ("v2", LOCK2), .40), ("tick", ("v2", LOCK2 + 0.5), .28),
+    ("lock", ("v2", LOCK2), .40), ("tick", ("v2", LOCK2 + 0.15), .28),
     ("whoosh", ("v2", ASSETS_END2), .24), ("stamp", 18.84, .45), ("pop", 20.3, .28), ("pop", 21.42, .28),
     ("swish", 22.5, .24), ("clock", 25.65, .22), ("tick", 30.2, .30), ("tick", 31.75, .30), ("impact", 35.3, .38),
     ("whoosh", 37.55, .24), ("swish", 39.95, .20), ("ding", 42.3, .22), ("pop", 45.85, .28), ("swish", 50.85, .20), ("stamp", 53.85, .32), ("ding", 54.1, .26),
@@ -633,6 +633,7 @@ frost_js = "".join(
 SHAKE = [(T(a), amp) for a, amp in [(3.35, 14), (35.3, 7), (64.1, 6), (7.42, 5)]] + [(LOCK2 + 0.05, 5)]
 shake_js = ""
 for a, amp in SHAKE:
+    a = round(a, 2)
     seq = [(1, -0.6), (-0.8, 0.9), (0.6, -0.4), (-0.4, 0.5), (0.2, -0.2), (0, 0)]
     for k, (dx, dy) in enumerate(seq):
         shake_js += f"    tl.to('#shake',{{x:{dx*amp:.1f},y:{dy*amp:.1f},duration:0.035,ease:'none'}},{a+k*0.035:.3f});\n"

diff --git a/SKRIP-VOICE-OVER.md b/SKRIP-VOICE-OVER.md
@@ -24,14 +24,14 @@
 
 > Bila berlaku kematian, / semua aset kita akan **terbeku.**
 
-## 3. SENARAI ASET (0:08.9 – 0:14.2)
+## 3. SENARAI ASET (0:08.9 – 0:14.7)
 **Visual:** cip Kereta, Rumah, Akaun Bank, ASB, Tabung Haji muncul satu per satu, lepas tu semua dikunci + "Tak boleh dikeluarkan"
 
 > Kereta. / Rumah. / Akaun bank. / ASB. / **Tabung Haji.** //
 
 *Nada: setiap aset satu ketukan. Ayat "semuanya dibekukan" dibuang sebab ulang babak 2. Kad kunci yang sampaikan mesej tu.*
 
-## 4. SURAT KUASA (0:14.2 – 0:21.0)
+## 4. SURAT KUASA (0:14.7 – 0:21.0)
 **Visual:** dokumen SURAT KUASA / Perintah Pembahagian muncul
 
 > Untuk keluarkan duit dan tukar nama geran, / waris **wajib** dapatkan **surat kuasa** / dari pejabat tanah / atau mahkamah tinggi.
